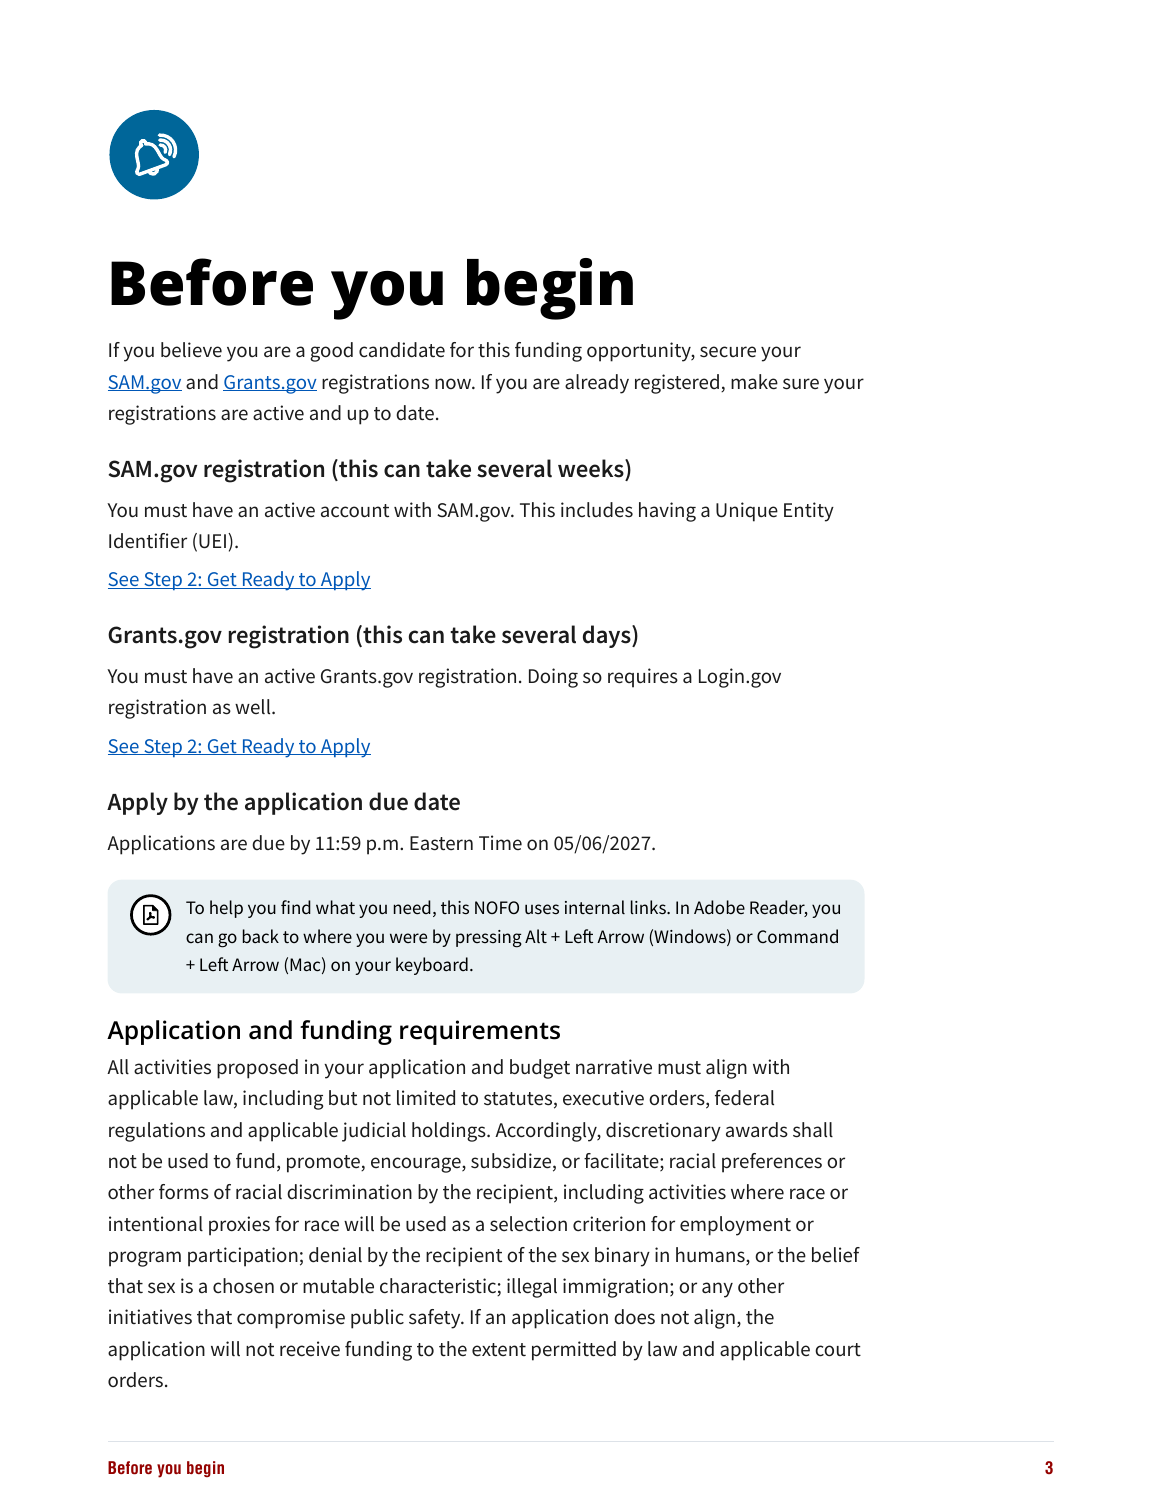
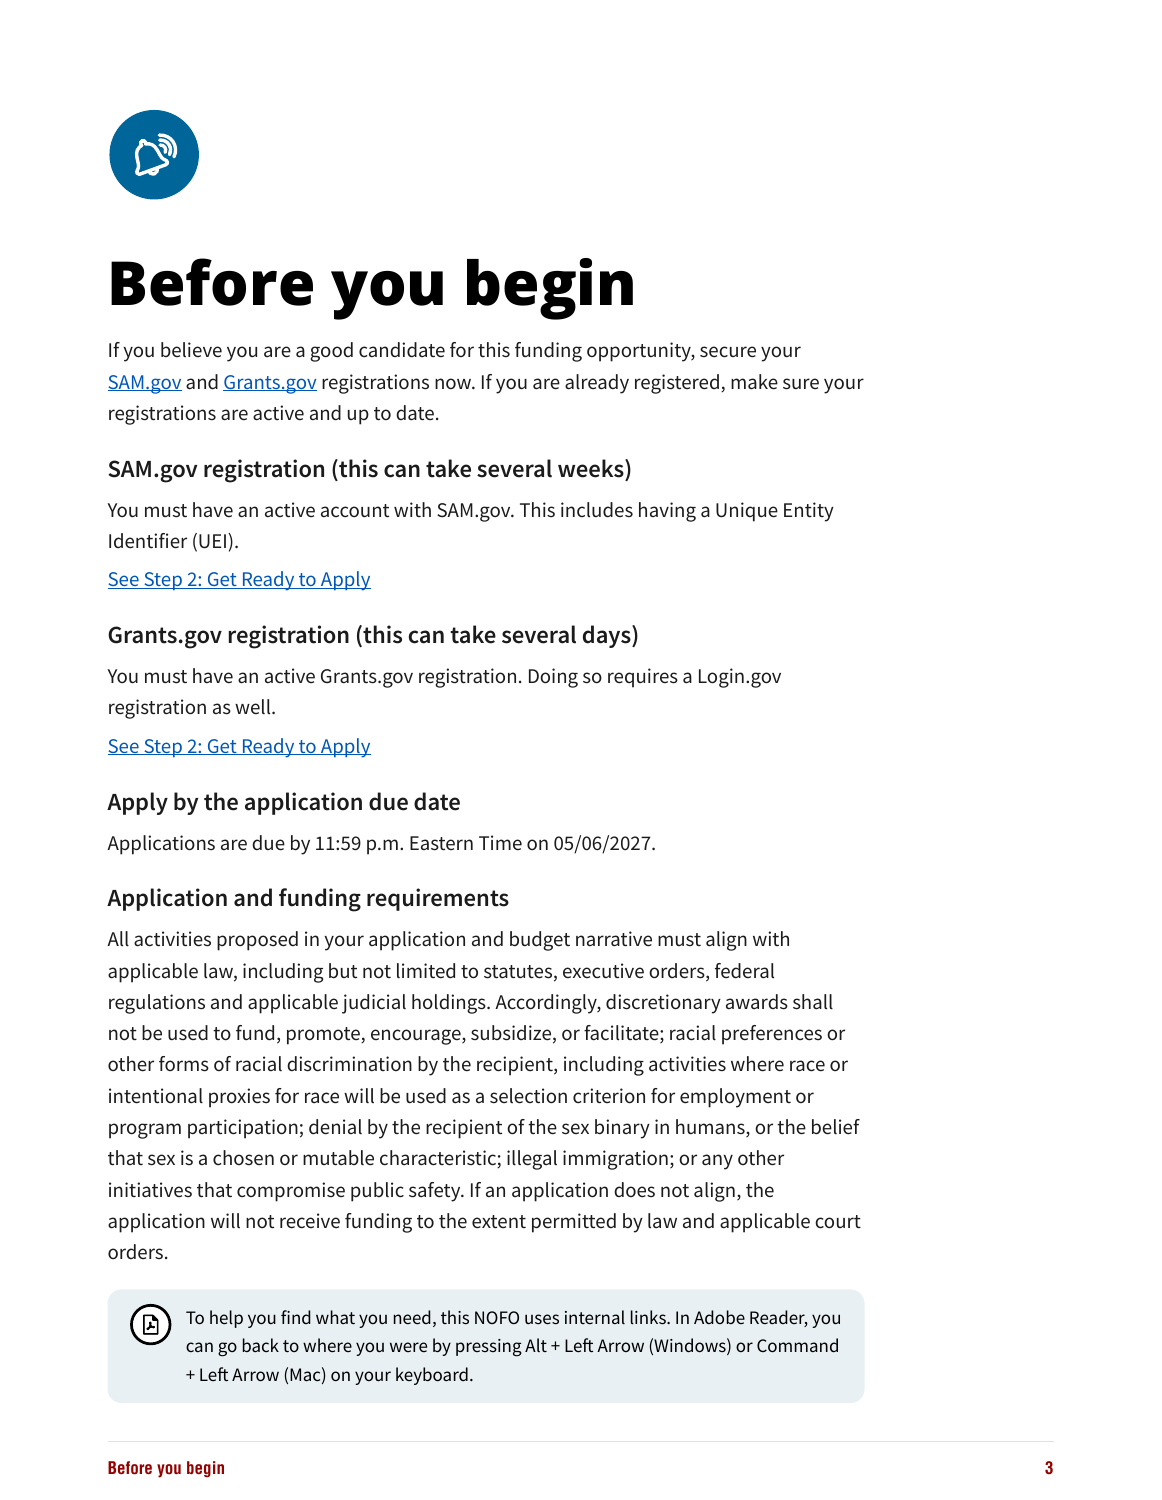
fix: align HRSA BYB headings and move reader callout last

Changed region(s): [[0.0929, 0.5827, 0.7435, 0.92]]

diff --git a/nofos/bloom_nofos/templates/includes/byb_page.html b/nofos/bloom_nofos/templates/includes/byb_page.html
@@ -21,7 +21,7 @@
       <p>If you believe you are a good candidate for this funding opportunity, secure your <a href="https://sam.gov">SAM.gov</a> registration now. If you are already registered, make sure your registration is active and up to date.</p>
     {% endif %}
 
-    <p class="section--before-you-begin--psuedo-header">SAM.gov registration (this can take several weeks)</p>
+    {% include "includes/byb_subheading.html" with variant=nofo.before_you_begin content="SAM.gov registration (this can take several weeks)" only %}
     <p>You must have an active account with SAM.gov. This includes having a Unique Entity Identifier (UEI).</p>
     {% if step_2_section %}
       <a href="#{{ step_2_section.html_id }}">See {{ step_2_section.name }}</a>
@@ -30,7 +30,7 @@
     {% endif %}
 
     {% if nofo.before_you_begin == 'full' or nofo.before_you_begin == 'era' or nofo.before_you_begin == 'hrsa' %}
-      <p class="section--before-you-begin--psuedo-header">Grants.gov registration (this can take several days)</p>
+      {% include "includes/byb_subheading.html" with variant=nofo.before_you_begin content="Grants.gov registration (this can take several days)" only %}
       <p>You must have an active Grants.gov registration. Doing so requires a Login.gov registration as well.</p>
       {% if step_2_section %}
         <a href="#{{ step_2_section.html_id }}">See {{ step_2_section.name }}</a>
@@ -50,7 +50,7 @@
       {% endif %}
     {% endif %}
 
-    <p class="section--before-you-begin--psuedo-header">Apply by the application due date</p>
+    {% include "includes/byb_subheading.html" with variant=nofo.before_you_begin content="Apply by the application due date" only %}
     {% if "|" in nofo.application_deadline %}
       <p>Applications are due by 11:59 p.m. Eastern Time:</p>
       <ul>
@@ -60,6 +60,11 @@
       </ul>
     {% else %}
       <p>Applications are due by {% if nofo.before_you_begin == 'era' %}5:00 p.m. local time{% else %}11:59 p.m. Eastern Time{% endif %} on {{ nofo.application_deadline|split_char_and_remove:"-" }}.</p>
+    {% endif %}
+
+    {% if nofo.before_you_begin == 'hrsa' %}
+      <h3 class="before-you-begin--requirements">Application and funding requirements</h3>
+      <p>All activities proposed in your application and budget narrative must align with applicable law, including but not limited to statutes, executive orders, federal regulations and applicable judicial holdings. Accordingly, discretionary awards shall not be used to fund, promote, encourage, subsidize, or facilitate; racial preferences or other forms of racial discrimination by the recipient, including activities where race or intentional proxies for race will be used as a selection criterion for employment or program participation; denial by the recipient of the sex binary in humans, or the belief that sex is a chosen or mutable characteristic; illegal immigration; or any other initiatives that compromise public safety. If an application does not align, the application will not receive funding to the extent permitted by law and applicable court orders.</p>
     {% endif %}
 
     <div class="callout-box callout-box--icon callout-box--keyboard">
@@ -72,9 +77,5 @@
           <p>To help you find what you need, this NOFO uses internal links. In Adobe Reader, you can go back to where you were by pressing Alt + Left Arrow (Windows) or Command + Left Arrow (Mac) on your keyboard.</p>
       </div>
     </div>
-    {% if nofo.before_you_begin == 'hrsa' %}
-      <h3 class="before-you-begin--requirements">Application and funding requirements</h3>
-      <p>All activities proposed in your application and budget narrative must align with applicable law, including but not limited to statutes, executive orders, federal regulations and applicable judicial holdings. Accordingly, discretionary awards shall not be used to fund, promote, encourage, subsidize, or facilitate; racial preferences or other forms of racial discrimination by the recipient, including activities where race or intentional proxies for race will be used as a selection criterion for employment or program participation; denial by the recipient of the sex binary in humans, or the belief that sex is a chosen or mutable characteristic; illegal immigration; or any other initiatives that compromise public safety. If an application does not align, the application will not receive funding to the extent permitted by law and applicable court orders.</p>
-    {% endif %}
   </div>
 </section>

diff --git a/nofos/bloom_nofos/static/theme-opdiv-hrsa.css b/nofos/bloom_nofos/static/theme-opdiv-hrsa.css
@@ -176,9 +176,12 @@ section.before-you-begin--hrsa {
   padding-top: 0;
 }
 
-.before-you-begin--hrsa .before-you-begin--requirements {
+.before-you-begin--hrsa h3 {
+  font-family: inherit;
   font-size: 13pt;
   font-weight: 600;
+  line-height: inherit;
+  color: inherit;
   margin: 15px 0 5px;
   break-after: avoid;
 }

diff --git a/nofos/bloom_nofos/templates/includes/byb_subheading.html b/nofos/bloom_nofos/templates/includes/byb_subheading.html
@@ -1,0 +1,5 @@
+{% if variant == 'hrsa' %}
+  <h3 class="section--before-you-begin--psuedo-header">{{ content }}</h3>
+{% else %}
+  <p class="section--before-you-begin--psuedo-header">{{ content }}</p>
+{% endif %}

diff --git a/nofos/nofos/tests_nofos/test_hrsa_byb.py b/nofos/nofos/tests_nofos/test_hrsa_byb.py
@@ -168,15 +168,29 @@ class HrsaBeforeYouBeginTests(TestCase):
         self.assertEqual(nofo.before_you_begin, "full")
         self.assertEqual(nofo.icon_style, "nofo--icons--solid")
 
-    def test_hrsa_template_has_semantic_heading_after_callout_and_toc_link(self):
+    def test_hrsa_template_has_peer_headings_before_final_callout_and_toc_link(self):
         nofo = self.new_import()
         response = self.client.get(reverse("nofos:nofo_view", kwargs={"pk": nofo.pk}))
         soup = BeautifulSoup(response.content, "html.parser")
         page = soup.select_one(".before-you-begin--hrsa")
         self.assertEqual(page.h2.get_text(), "Before you begin")
-        heading = page.select_one(".callout-box").find_next_sibling("h3")
+        self.assertEqual(
+            [heading.get_text() for heading in page.find_all("h3")],
+            [
+                "SAM.gov registration (this can take several weeks)",
+                "Grants.gov registration (this can take several days)",
+                "Apply by the application due date",
+                "Application and funding requirements",
+            ],
+        )
+        heading = page.select_one(".before-you-begin--requirements")
         self.assertEqual(heading.get_text(), "Application and funding requirements")
-        paragraph = heading.find_next_sibling("p").get_text()
+        paragraph_tag = heading.find_next_sibling("p")
+        self.assertEqual(
+            paragraph_tag.find_next_sibling(), page.select_one(".callout-box")
+        )
+        self.assertIsNone(page.select_one(".callout-box").find_next_sibling())
+        paragraph = paragraph_tag.get_text()
         self.assertTrue(
             paragraph.startswith("All activities proposed in your application")
         )
@@ -201,6 +215,7 @@ class HrsaBeforeYouBeginTests(TestCase):
                 )
                 self.assertNotIn("Application and funding requirements", html)
                 self.assertNotIn("before-you-begin--hrsa", html)
+                self.assertNotIn("<h3", html)
 
     def test_cover_image_can_still_be_saved_for_text_only_hrsa_record(self):
         nofo = self.new_import()

diff --git a/documentation/IMPORT_RULES.md b/documentation/IMPORT_RULES.md
@@ -478,7 +478,7 @@ These are heuristic *suggestions* pre-filled into NOFO metadata fields (opportun
 ### IMPORT-044 — "Before you begin" page variant suggestion
 - **Type:** extraction
 - **Trigger:** Brand-new import whose suggested theme is HRSA (derived from opportunity number / OpDiv), or importing user's group is `"nih"`.
-- **Action:** Select the persisted `"hrsa"` variant for an HRSA theme, otherwise `"era"` for an NIH user, otherwise `"full"`. The HRSA variant includes the registration/deadline content and an “Application and funding requirements” heading and paragraph after the internal-links callout. Re-imports retain their saved variant, even with a blank/placeholder opportunity number. Adding the choice does not backfill any existing records.
+- **Action:** Select the persisted `"hrsa"` variant for an HRSA theme, otherwise `"era"` for an NIH user, otherwise `"full"`. The HRSA variant includes the registration/deadline content and an “Application and funding requirements” heading and paragraph before the final internal-links callout. Its four subsection headings are matching semantic `h3` elements below the page's `h2`. Re-imports retain their saved variant, even with a blank/placeholder opportunity number. Adding the choice does not backfill any existing records.
 - **Source:** `nofo.py::suggest_nofo_before_you_begin`, `suggest_all_nofo_fields`; explicit new/re-import context from `views.py`
 - **Status:** active
 

diff --git a/documentation/review-evidence/909/README.md b/documentation/review-evidence/909/README.md
@@ -9,7 +9,7 @@ The fixture is synthetic; no existing NOFO records were changed.
 - `before.png`: the existing `full` BYB variant, with the HRSA stylesheet from
   base commit `8fd4d7a9`. This remains the layout of existing HRSA records.
 - `after.png`: the new `hrsa` BYB variant, with the required heading and exact
-  paragraph after the internal-links callout. Only this variant loses the
+  paragraph before the final internal-links callout. Only this variant loses the
   portrait page's extra 150px top padding.
 
 Both renders use `portrait-hrsa-white`, the default filled icon style
@@ -20,9 +20,10 @@ to verify that the text-only cover does not display it.
 ## Verification
 
 - The full document remains five pages; all BYB content fits on page 3.
-- The new heading is a semantic `h3` under the page's `h2`; the PDF is tagged.
-- Body text stays at 11pt; the subordinate heading is 13pt.
-- The last line ends at 734.55pt, above the footer text starting at 770.90pt.
+- All four subsection headings are semantic `h3` elements under the page's `h2`;
+  the PDF is tagged.
+- Body text stays at 11pt. All four subsection headings use the same inherited
+  typeface, 13pt size, 600 weight, color, line height, and margins.
 - Visually inspected both screenshots: no clipping, overlap, orphaned heading,
   or footer collision.
 - PDF text extraction retains the complete paragraph in reading order.
